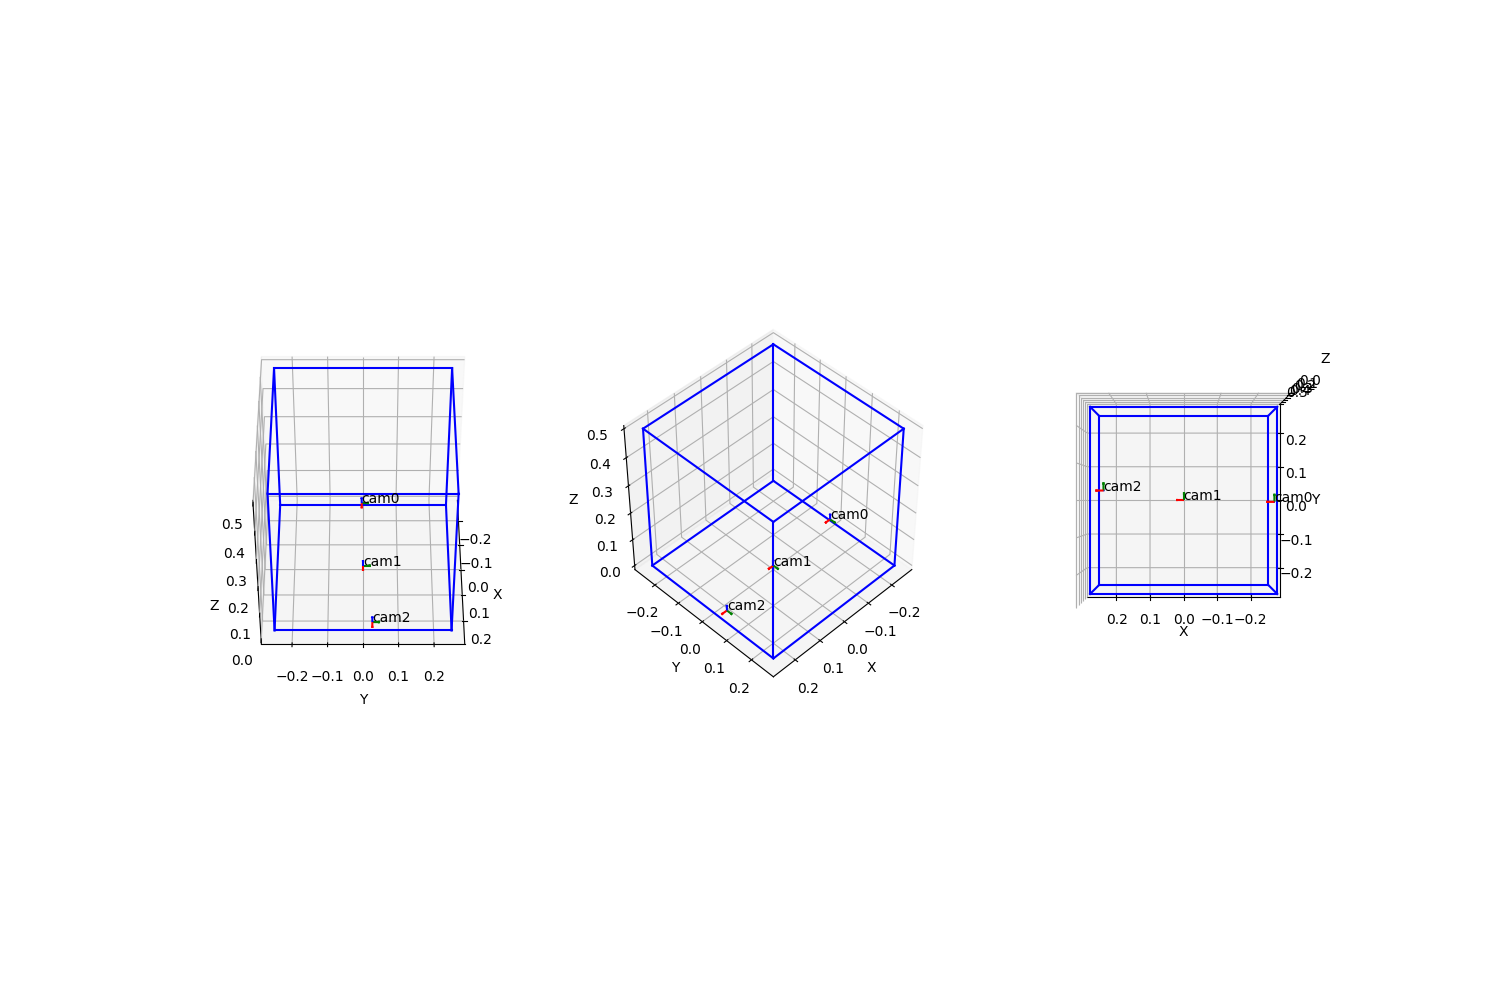
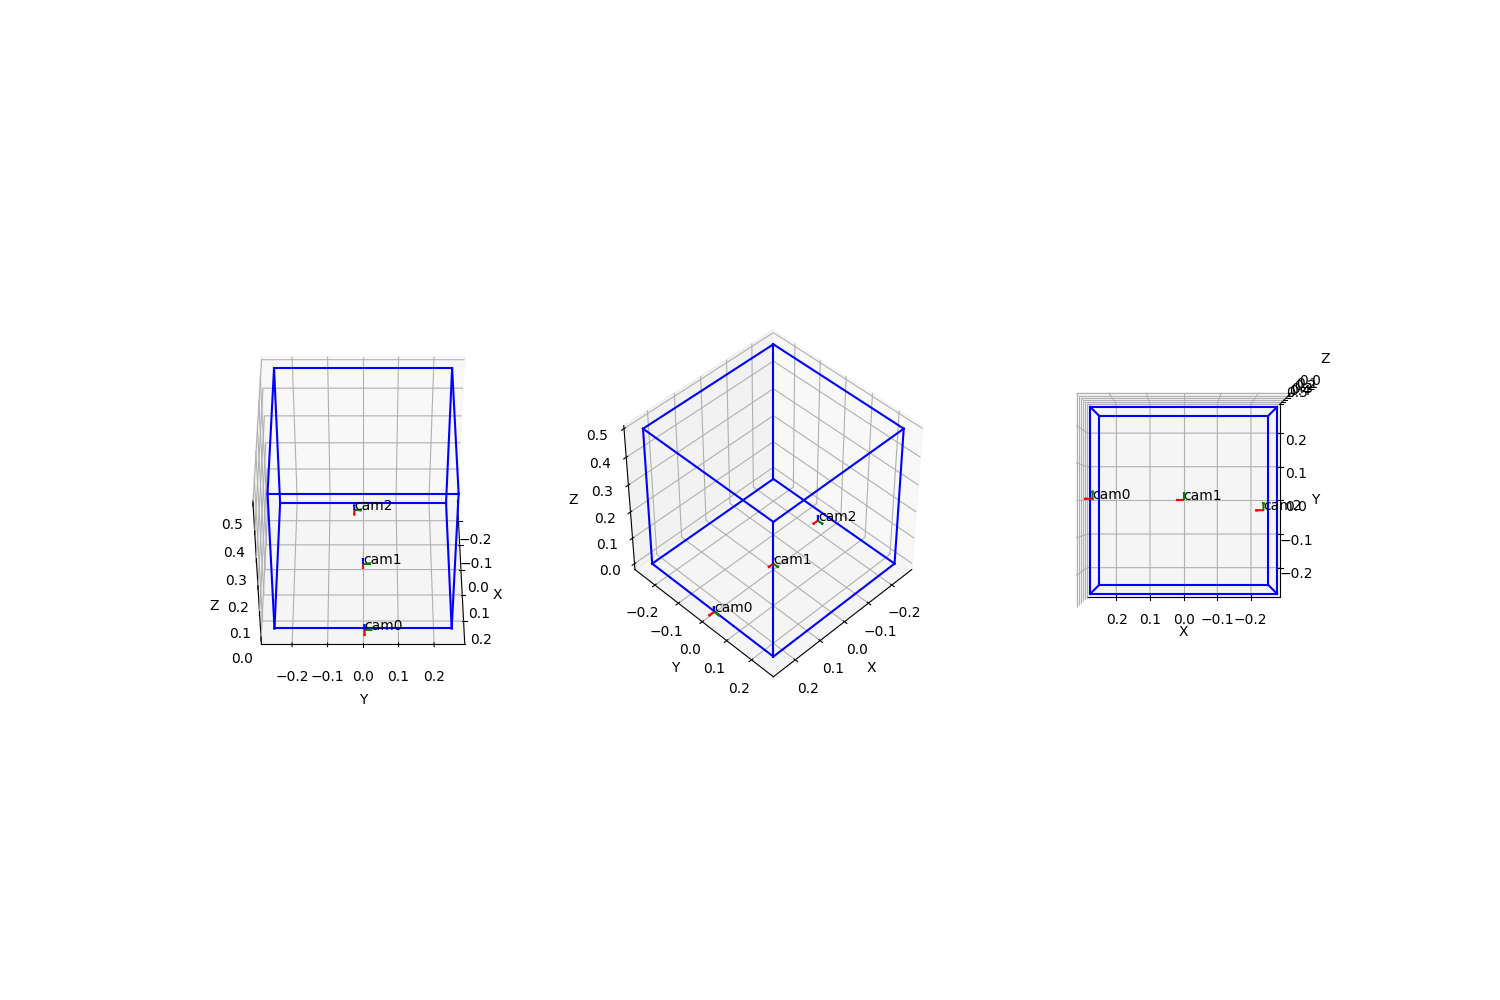
Reverse incorrect translation in calibration

diff --git a/real_time_localization/real_time_localization.py b/real_time_localization/real_time_localization.py
@@ -45,6 +45,7 @@ class Capture:
             center_y = frame.shape[0] // 2
             org = (center_x - text_width // 2, center_y + text_height // 2)
             cv2.putText(frame, text, org, font, font_scale, color, thickness, cv2.LINE_AA)
+        return corners
         
     def charuco_capture(self, frame, camera_name):
         pass
@@ -79,10 +80,12 @@ class Capture:
         fourcc = cv2.VideoWriter_fourcc(*'mp4v')
         out = cv2.VideoWriter(filename, fourcc, 24, (self.width, self.height))
 
-
+        data = {}
+        frame_count = 0
         while True:
             frames = []
             show_frames = []
+            frame_data = {}
             
             for i in range(len(self.cameras)):
                 camera_name = self.settings['cameras'][i]
@@ -92,17 +95,21 @@ class Capture:
                     shown_frame = frames[i].copy()
                 else:
                     shown_frame = frame
-                capture_function(shown_frame, camera_name)
+                frame_data[camera_name] = capture_function(shown_frame, camera_name)
                 show_frames.append(shown_frame)
                 
             frame = self.frame_concatent(frames, self.reference_shape)
             show_frame = self.frame_concatent(show_frames, self.reference_shape)
             out.write(frame)
             cv2.imshow('Frames', show_frame)
-
+            data[frame_count] = frame_data
+            frame_count += 1
             if cv2.waitKey(1) & 0xFF == ord('q'):
                 break
 
+
+        with open(f'output/{timestamp}.json', 'w') as f:
+            json.dump(data, f)
         out.release()
         cv2.destroyAllWindows()
         
@@ -129,7 +136,8 @@ class Localization(Capture):
         
     def localization(self, frame, camera_name):
         corners, ids, rejected = cv2.aruco.detectMarkers(frame, self.detect_dict_localization, parameters=self.detect_param_localization)
-
+        frame_data = []
+        
         for i in range(len(corners)):
             rvec, tvec, _ = cv2.aruco.estimatePoseSingleMarkers(corners[i], self.settings['marker_size_localization'], self.cameras_mtx[camera_name], self.cameras_dist[camera_name])
             homogeneous_marker_point = np.eye(4)
@@ -138,12 +146,14 @@ class Localization(Capture):
             
             homogeneous_marker_point = self.cameras_extrinsic[camera_name] @ homogeneous_marker_point
             marker_info = (f"ID: {ids[i]} X: {homogeneous_marker_point[:3, 3][0]:.4f} Y: {homogeneous_marker_point[:3, 3][1]:.4f} Z: {homogeneous_marker_point[:3, 3][2]:.4f}")
+            frame_data.append(homogeneous_marker_point[:3, 3])
             font = cv2.FONT_HERSHEY_SIMPLEX
             font_scale = 1
             thickness = 2
             color = (0, 0, 255)
             cv2.putText(frame, marker_info, (int(corners[i][0][0][0]), int(corners[i][0][0][1])), font, font_scale, color, thickness, cv2.LINE_AA)
-
+            
+        return frame_data
     
         
 def main():

diff --git a/Callibration/extrinsic_calibration_charuco.py b/Callibration/extrinsic_calibration_charuco.py
@@ -69,8 +69,6 @@ class ExtrinsicCalibrationCharuco:
                     continue
                 
                 ret, rvec, tvec = cv2.aruco.estimatePoseCharucoBoard(corners, ids, self.board, self.camera_mtx[camera_name], self.camera_dist[camera_name], None, None, useExtrinsicGuess=False)
-                # Change to board to camera transformation
-                tvec = -tvec
                 
                 frame_points[camera_name] = (rvec, tvec, number_of_corners)
                 
